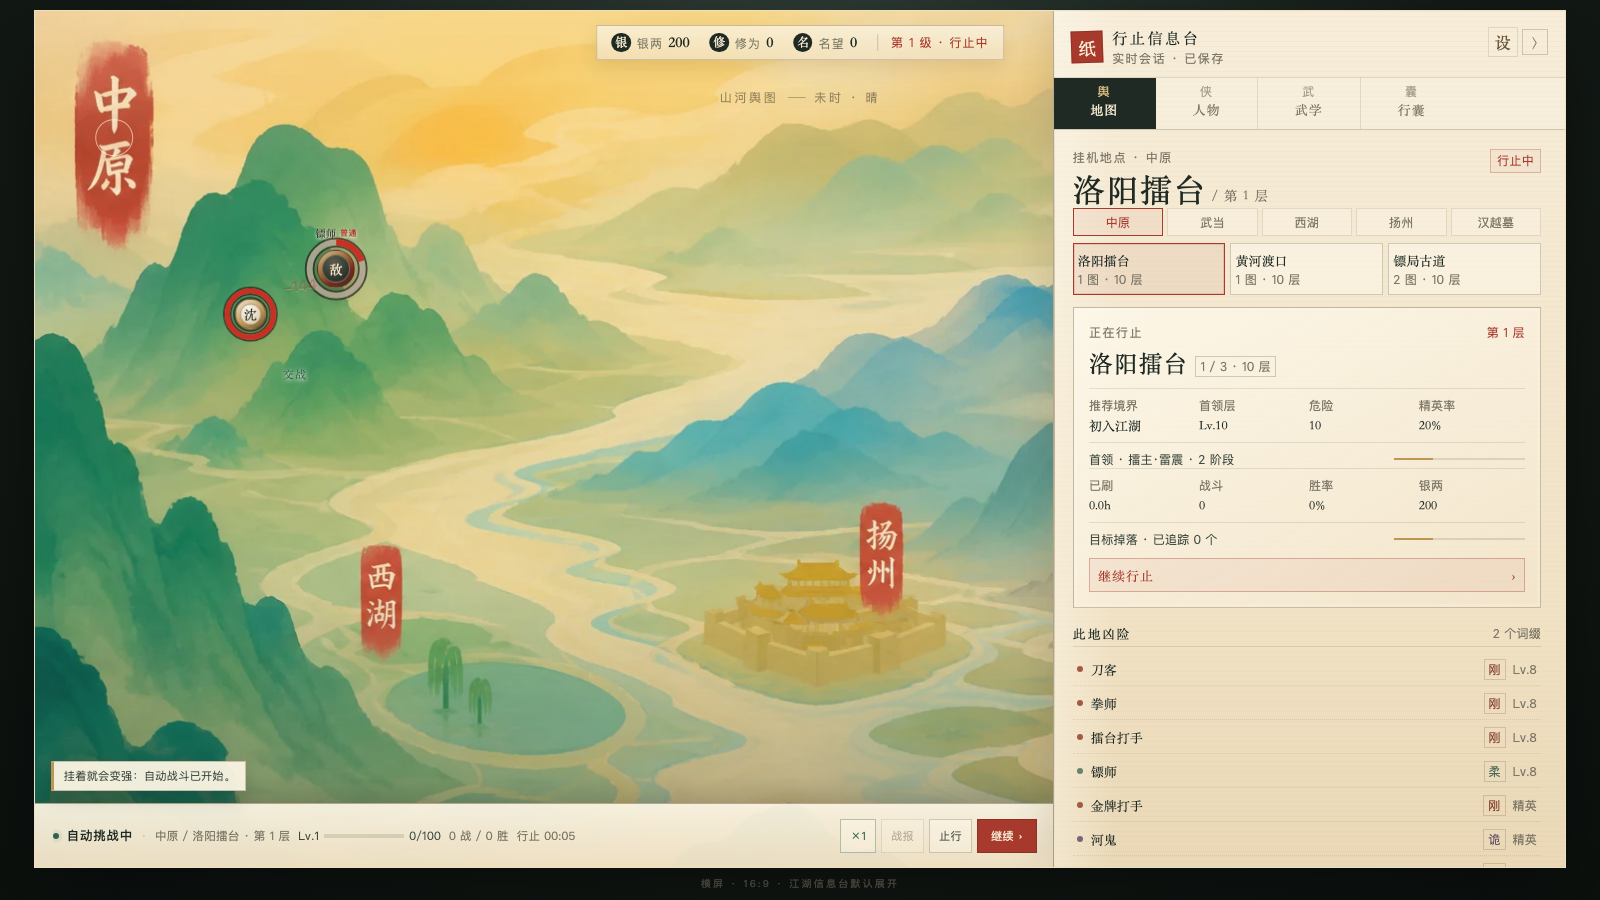
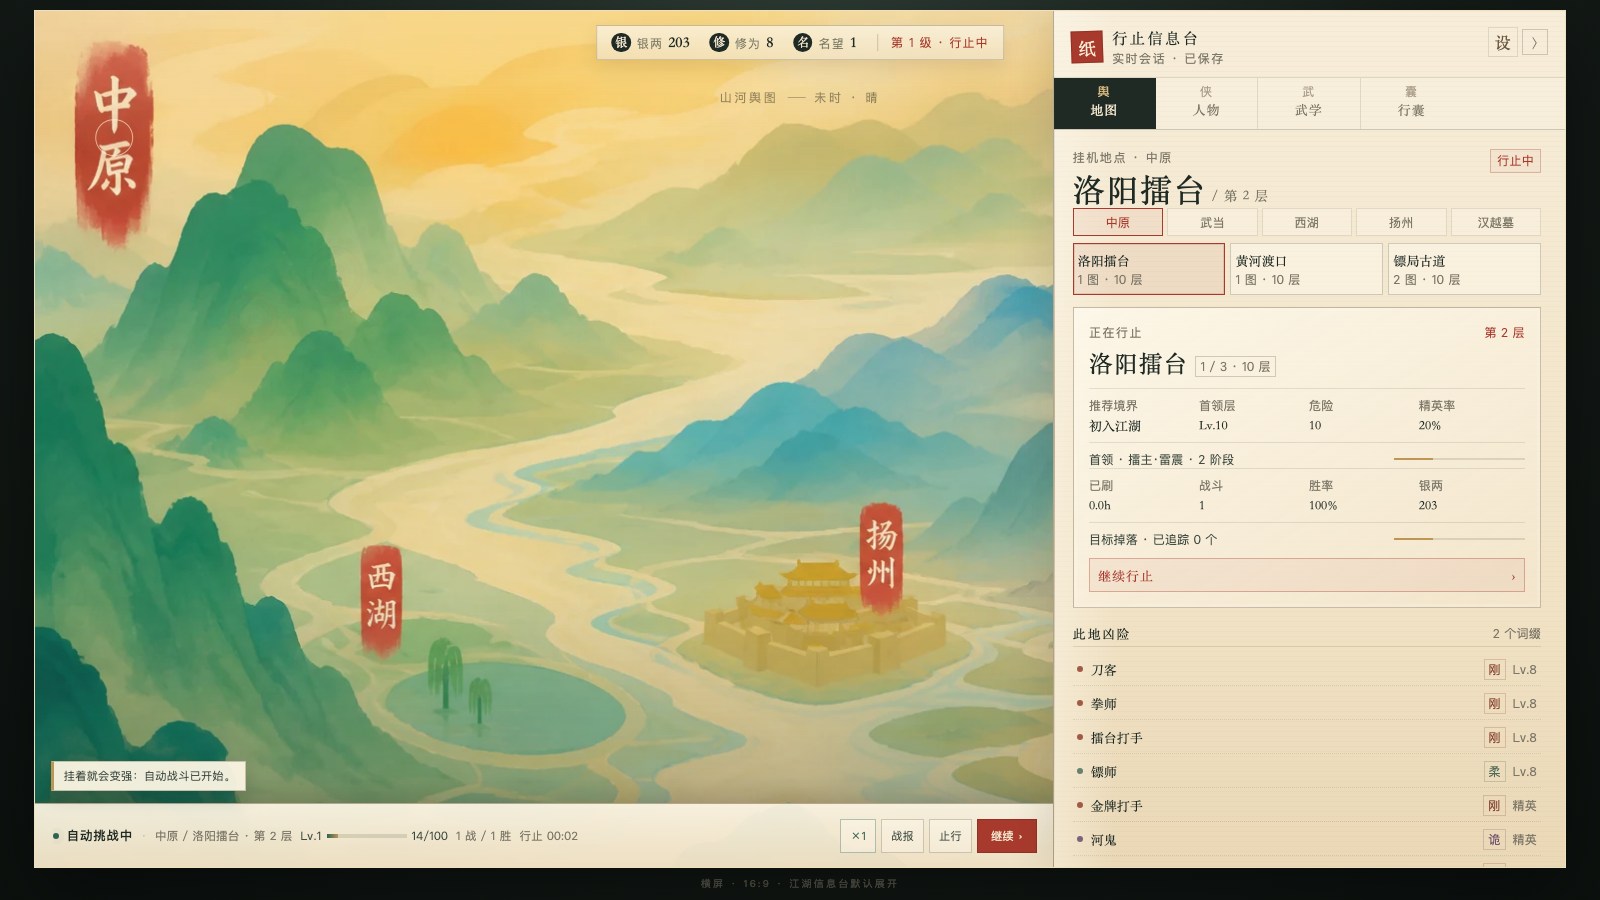
feat(ui): drive battles as a playback queue

diff --git a/src/ui/App.tsx b/src/ui/App.tsx
@@ -27,7 +27,7 @@ import {
   npcsForMap,
   targetDropsForMap,
 } from "./worldUi.ts";
-import { hasRecoverySave, readRecoverySave, useJianghuSession } from "./sessionStore.ts";
+import { hasRecoverySave, readRecoverySave, useJianghuSession, type PulledBattleResult } from "./sessionStore.ts";
 import { SettingsDrawer } from "./SettingsDrawer.tsx";
 import { StartScreen } from "./StartScreen.tsx";
 import { NARRATIVE_ENABLED } from "./features.ts";
@@ -81,7 +81,7 @@ function App() {
   const [selectedMapId, setSelectedMapId] = useState("heishi");
   const [notice, setNotice] = useState<string | null>(null);
   const {
-    snapshot, dispatch, reset, offlineReport, dismissOffline, saveStatus, exportSave, importSave,
+    snapshot, dispatch, pullBattle, reset, offlineReport, dismissOffline, saveStatus, exportSave, importSave,
     entryOpen, hasSave, corruptSave, fixture, continueGame, startNewGame,
   } = useJianghuSession();
   const [settings, setSettings] = useState<UiSettings>(() => loadUiSettings());
@@ -197,7 +197,7 @@ function App() {
                 <span className="pin-core" />
                 <span className="pin-label">{snapshot.playerName}</span>
               </div>
-              <BattleCluster key={`${snapshot.mapId}-${snapshot.fights}`} snapshot={snapshot} map={currentMap} region={current} panelOpen={panelOpen} />
+              <BattleCluster key={snapshot.mapId} snapshot={snapshot} map={currentMap} region={current} panelOpen={panelOpen} pullBattle={pullBattle} />
             </div>
 
             {notice && <div className="toast">{notice}</div>}
@@ -406,83 +406,113 @@ function HpRing({ pct }: { pct: number }) {
   );
 }
 
+type UiBattlePhase = "searching" | "encounter" | "fighting" | "result";
+
 function BattleCluster(props: {
   snapshot: ReturnType<typeof useJianghuSession>["snapshot"];
   map: WorldMapDefV1;
   region: RegionUi;
   panelOpen: boolean;
+  pullBattle: () => PulledBattleResult;
 }) {
-  const { snapshot, map, region, panelOpen } = props;
-  const phase = snapshot.battlePhase;
-  const current = snapshot.currentFight;
-  const last = snapshot.lastBattle;
-  const report = phase === "fighting" ? current : last;
-  const resultWin = last?.outcome === "win";
-  const cssPhase = phase === "result" ? (resultWin ? "phase-victory" : "phase-defeat") : `phase-${phase}`;
+  const { snapshot, map, region, panelOpen, pullBattle } = props;
+  const [phase, setPhase] = useState<UiBattlePhase>("searching");
+  const [report, setReport] = useState<PulledBattleResult>(null);
+  const [shownHp, setShownHp] = useState({ player: 100, enemy: 100 });
+  const [damagePopup, setDamagePopup] = useState<{ key: number; amount: number } | null>(null);
+  const speed = snapshot.speed || 1;
   const elite = enemiesForMap(map).find((enemy) => enemy.kind === "elite");
-  const kind = phase === "encounter" || phase === "fighting"
-    ? (snapshot.currentEncounter?.kind ?? "normal")
-    : (snapshot.mapLayer >= 10 ? "boss" : last?.enemyName === elite?.name ? "elite" : "normal");
+  const kind = report?.kind ?? (snapshot.mapLayer >= 10 ? "boss" : "normal");
   const kindLabel = kind === "boss" ? "首领" : kind === "elite" ? "精英" : "普通";
-  const enemyName = phase === "searching"
-    ? ""
-    : (snapshot.currentEncounter?.name ?? report?.enemyName ?? "");
-  const enemyNames = enemyName.split(/[、,，]/).map((name) => name.trim()).filter(Boolean);
-  const enemyLabel = enemyNames.length > 1 ? `${enemyNames[0]} 等 ${enemyNames.length} 人` : enemyName;
-  const enemyVisible = phase !== "searching";
-  const total = Math.max(0.001, snapshot.battlePhaseTotalSeconds);
-  const elapsed = Math.max(0, total - snapshot.battlePhaseRemainingSeconds);
+  const finalPlayerHp = report ? Math.max(0, Math.min(100, Math.round(report.playerHpPct * 100))) : 100;
+  const finalEnemyHp = report ? Math.max(0, Math.min(100, Math.round(report.enemyHpPct * 100))) : 100;
   const timeline = report?.timeline ?? [];
   const roundCount = Math.max(1, timeline.length);
-  const roundIndex = phase === "fighting" && timeline.length > 0
-    ? Math.min(timeline.length, Math.max(0, Math.ceil((elapsed / total) * timeline.length)))
-    : 0;
-  const round = roundIndex > 0 ? timeline[roundIndex - 1] : null;
-  const finalPlayerHp = Math.max(0, Math.min(100, Math.round((report?.playerHpPct ?? 1) * 100)));
-  const finalEnemyHp = Math.max(0, Math.min(100, Math.round((report?.enemyHpPct ?? (resultWin ? 0 : 1)) * 100)));
-  const displayPlayerHp = phase === "result"
-    ? finalPlayerHp
-    : phase === "fighting"
-      ? (round ? Math.round(round.playerHpPct * 100) : 100)
-      : 100;
-  const displayEnemyHp = phase === "searching"
-    ? 0
-    : phase === "result"
-      ? finalEnemyHp
-      : phase === "fighting"
-        ? (round ? Math.round(round.enemyHpPct * 100) : 100)
-        : 100;
-  const [damagePopup, setDamagePopup] = useState<{ key: number; amount: number } | null>(null);
-  const lastPopupRound = useRef(0);
-  useEffect(() => {
-    if (phase !== "fighting" || roundIndex <= 0) {
-      lastPopupRound.current = 0;
-      setDamagePopup(null);
-      return;
-    }
-    if (roundIndex === lastPopupRound.current) return;
-    lastPopupRound.current = roundIndex;
-    const entry = timeline[roundIndex - 1];
-    const amount = entry ? Math.max(entry.playerDamage, entry.enemyDamage) : 0;
-    if (amount <= 0) return;
-    setDamagePopup({ key: roundIndex, amount });
-    const timer = window.setTimeout(() => setDamagePopup(null), 760);
-    return () => window.clearTimeout(timer);
-  }, [phase, roundIndex, timeline]);
+  const fightSeconds = Math.max(0.8, report?.seconds ?? 2);
+  const roundSeconds = fightSeconds / roundCount;
   const playerFirst = report?.playerFirst ?? true;
-  const singleBeat = phase === "fighting" && Boolean(report && ((playerFirst && finalEnemyHp <= 0) || (!playerFirst && finalPlayerHp <= 0)));
-  const phaseLabel = phase === "searching"
-    ? "寻找对手"
-    : phase === "encounter" ? "遇敌" : phase === "fighting" ? "交战"
-      : last?.outcome === "win" ? "胜" : last?.outcome === "timeout" ? "限" : "负";
+  const singleBeat = Boolean(report && ((playerFirst && finalEnemyHp <= 0) || (!playerFirst && finalPlayerHp <= 0)));
+  const enemyName = report?.enemyName ?? "";
+  const enemyNames = enemyName.split(/[、,，]/).map((name) => name.trim()).filter(Boolean);
+  const enemyLabel = enemyNames.length > 1 ? `${enemyNames[0]} 等 ${enemyNames.length} 人` : enemyName;
+  const enemyVisible = phase !== "searching" && Boolean(report);
+  const resultWin = report?.outcome === "win";
+  const cssPhase = phase === "result" ? (resultWin ? "phase-victory" : "phase-defeat") : `phase-${phase}`;
+  const phaseLabel = phase === "searching" ? "寻找对手" : phase === "encounter" ? "遇敌" : phase === "fighting" ? "交战"
+    : report?.outcome === "win" ? "胜" : report?.outcome === "timeout" ? "限" : "负";
+  const displayPlayerHp = phase === "searching" ? 100 : phase === "encounter" ? 100 : phase === "fighting" ? shownHp.player : finalPlayerHp;
+  const displayEnemyHp = phase === "searching" ? 0 : phase === "encounter" ? 100 : phase === "fighting" ? shownHp.enemy : finalEnemyHp;
   const anchor = BATTLE_ANCHORS[region.id];
   const clamped = panelOpen && anchor.x > 60;
   const left = clamped ? 60 : anchor.x;
+
+  useEffect(() => {
+    if (!snapshot.active) return;
+    let cancelled = false;
+    const timers: number[] = [];
+    const pushTimer = (fn: () => void, delay: number) => {
+      const timer = window.setTimeout(fn, delay);
+      timers.push(timer);
+    };
+    const startSearch = () => {
+      if (cancelled) return;
+      setPhase("searching");
+      setReport(null);
+      setShownHp({ player: 100, enemy: 100 });
+      setDamagePopup(null);
+      const searchMs = (1800 + Math.random() * 1800) / speed;
+      pushTimer(() => {
+        if (cancelled) return;
+        const next = pullBattle();
+        if (!next) {
+          if (snapshot.active) pushTimer(startSearch, 500);
+          return;
+        }
+        setReport(next);
+        setShownHp({ player: 100, enemy: 100 });
+        setPhase("encounter");
+        pushTimer(() => {
+          if (cancelled) return;
+          setPhase("fighting");
+          const rounds = Math.max(1, next.timeline?.length ?? 1);
+          const durationMs = Math.max(800, next.seconds * 1000);
+          const roundMs = durationMs / rounds;
+          next.timeline?.forEach((entry, index) => {
+            pushTimer(() => {
+              if (cancelled) return;
+              setShownHp({
+                player: Math.round(entry.playerHpPct * 100),
+                enemy: Math.round(entry.enemyHpPct * 100),
+              });
+              const amount = Math.max(entry.playerDamage, entry.enemyDamage);
+              if (amount > 0) {
+                setDamagePopup({ key: index + 1, amount });
+                pushTimer(() => setDamagePopup(null), 760);
+              }
+            }, roundMs * (index + 1));
+          });
+          pushTimer(() => {
+            if (cancelled) return;
+            setShownHp({ player: Math.max(0, Math.round(next.playerHpPct * 100)), enemy: Math.max(0, Math.round(next.enemyHpPct * 100)) });
+            setPhase("result");
+            pushTimer(startSearch, 1600 / speed);
+          }, durationMs);
+        }, 800 / speed);
+      }, searchMs);
+    };
+    startSearch();
+    return () => {
+      cancelled = true;
+      timers.forEach((timer) => window.clearTimeout(timer));
+    };
+  }, [snapshot.active, snapshot.speed, snapshot.mapId, pullBattle]);
+
+  if (!snapshot.active) return null;
   return (
     <div
       className={`battle-cluster kind-${kind} ${cssPhase} ${singleBeat ? "single-beat" : ""}`}
       data-first={playerFirst ? "player" : "enemy"}
-      style={{ left: `${left}%`, top: `${anchor.y}%`, "--round-seconds": `${Math.max(0.35, total / roundCount)}s` } as CSSProperties}
+      style={{ left: `${left}%`, top: `${anchor.y}%`, "--round-seconds": `${roundSeconds}s` } as CSSProperties}
       role="group"
       aria-label={phase === "searching" ? "自动行止中，寻找对手" : `${phaseLabel}：${enemyLabel}`}
     >
@@ -514,8 +544,8 @@ function BattleCluster(props: {
         </div>
         {phase === "fighting" && <span className="cluster-impact" />}
         {phase === "fighting" && !singleBeat && <span className="cluster-impact beat-two" />}
-        {damagePopup && (
-          <span className="cluster-damage hit-pop" key={`${snapshot.fights}-${damagePopup.key}`}>-{n(damagePopup.amount)}</span>
+        {phase === "fighting" && damagePopup && (
+          <span className="cluster-damage hit-pop" key={`${damagePopup.key}-${damagePopup.amount}`}>-{n(damagePopup.amount)}</span>
         )}
         {enemyVisible && (
           <div className="combat-orb enemy" style={{ "--hp": `${displayEnemyHp}%` } as CSSProperties}>
@@ -523,6 +553,7 @@ function BattleCluster(props: {
             <span className="orb-name">{enemyLabel}<small>{kindLabel}</small></span>
           </div>
         )}
+        {!enemyVisible && phase !== "searching" && <span className="cluster-waiting">接敌中</span>}
       </div>
       <span className={`cluster-outcome phase-label-${phase}`}>{phaseLabel}</span>
     </div>

diff --git a/src/ui/sessionStore.ts b/src/ui/sessionStore.ts
@@ -1,5 +1,5 @@
 import { useEffect, useSyncExternalStore } from "react";
-import { JianghuSession, type JianghuCommand, type OfflineReportV1, type SessionSnapshotV1 } from "../core/session.ts";
+import { JianghuSession, type JianghuCommand, type OfflineReportV1, type SessionBattleReportV1, type SessionSnapshotV1 } from "../core/session.ts";
 
 const STORAGE_KEY = "jianghu-session-v1";
 const SAVE_INTERVAL_MS = 10_000;
@@ -144,6 +144,19 @@ export function dispatchSession(command: JianghuCommand): SessionSnapshotV1 {
   return snapshot!;
 }
 
+export type PulledBattleResult = (SessionBattleReportV1 & { seconds: number; kind: "normal" | "elite" | "boss" }) | null;
+
+export function pullBattleResult(): PulledBattleResult {
+  boot();
+  if (!session) return null;
+  const result = session.pullBattleResult(Date.now());
+  if (!result) return null;
+  snapshot = session.snapshot();
+  saveSession();
+  notify();
+  return result;
+}
+
 export function resetSession(
   buildId: "taiji" | "pojun" | "xuanyin" = "taiji",
   options: { playerName?: string; mapId?: string; skipTutorial?: boolean } = {},
@@ -191,6 +204,7 @@ export function dismissOfflineReport(): void {
 export function useJianghuSession(): {
   snapshot: SessionSnapshotV1;
   dispatch: (command: JianghuCommand) => SessionSnapshotV1;
+  pullBattle: () => PulledBattleResult;
   reset: (buildId?: "taiji" | "pojun" | "xuanyin") => SessionSnapshotV1;
   offlineReport: OfflineReportV1 | null;
   dismissOffline: () => void;
@@ -208,15 +222,16 @@ export function useJianghuSession(): {
   const live = useSyncExternalStore(subscribeSession, getSessionSnapshot, getSessionSnapshot);
   useEffect(() => {
     boot();
-    const timer = window.setInterval(advanceSession, 1000);
+    // Presentation is driven by BattleCluster. Settle any time since the last
+    // save once on mount (offline return), then only save while hidden; no
+    // one-second battle ticker competes with the playback queue.
+    advanceSession();
     const onVisibility = () => {
-      if (document.visibilityState === "visible") advanceSession();
-      else saveSession();
+      if (document.visibilityState === "hidden") saveSession();
     };
     document.addEventListener("visibilitychange", onVisibility);
     window.addEventListener("pagehide", saveSession);
     return () => {
-      window.clearInterval(timer);
       document.removeEventListener("visibilitychange", onVisibility);
       window.removeEventListener("pagehide", saveSession);
     };
@@ -224,6 +239,7 @@ export function useJianghuSession(): {
   return {
     snapshot: live,
     dispatch: dispatchSession,
+    pullBattle: pullBattleResult,
     reset: resetSession,
     offlineReport: getLastOfflineReport(),
     dismissOffline: dismissOfflineReport,

diff --git a/src/core/session.ts b/src/core/session.ts
@@ -410,6 +410,29 @@ export class JianghuSession {
     return session;
   }
 
+  pullBattleResult(nowMs = Date.now()): (SessionBattleReportV1 & { seconds: number; kind: "normal" | "elite" | "boss" }) | null {
+    const s = this.state;
+    if (!s.active || s.mode !== "clear" || this.pendingTrial()) return null;
+    const life = this.ensureBattleLifecycle();
+    this.prepareClearEncounter();
+    const encounter = life.encounter!;
+    this.beginClearBattle();
+    const { report, seconds } = life.pending!;
+    this.commitClearBattle();
+    // UI owns presentation; reset the session lifecycle to search so a future
+    // advanceTo()/offline path still has a sane state.
+    life.phase = "searching";
+    life.phaseTotalSeconds = nextSearchSeconds(s.seed, s.counter, s.fights, s.timeSeconds);
+    life.remainingSeconds = life.phaseTotalSeconds;
+    life.encounter = null;
+    life.encounterName = "";
+    life.pending = null;
+    s.timeSeconds += seconds;
+    s.nowMs = nowMs;
+    s.lastSettledMs = nowMs;
+    return { ...report, seconds, kind: encounter.kind };
+  }
+
   snapshot(): SessionSnapshotV1 {
     const s = this.state;
     const map = WORLD_CONTENT_V1.maps.find((entry) => entry.id === s.mapId)!;
